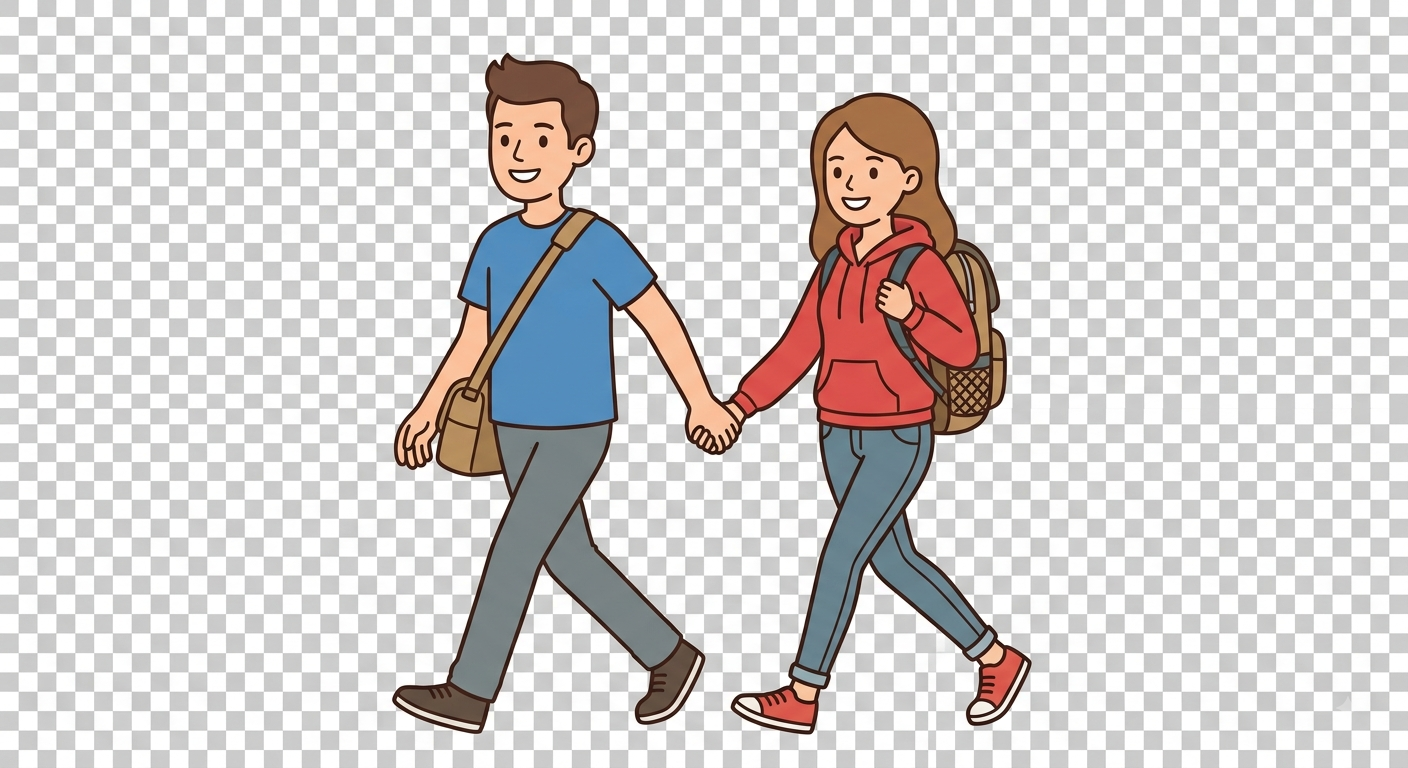
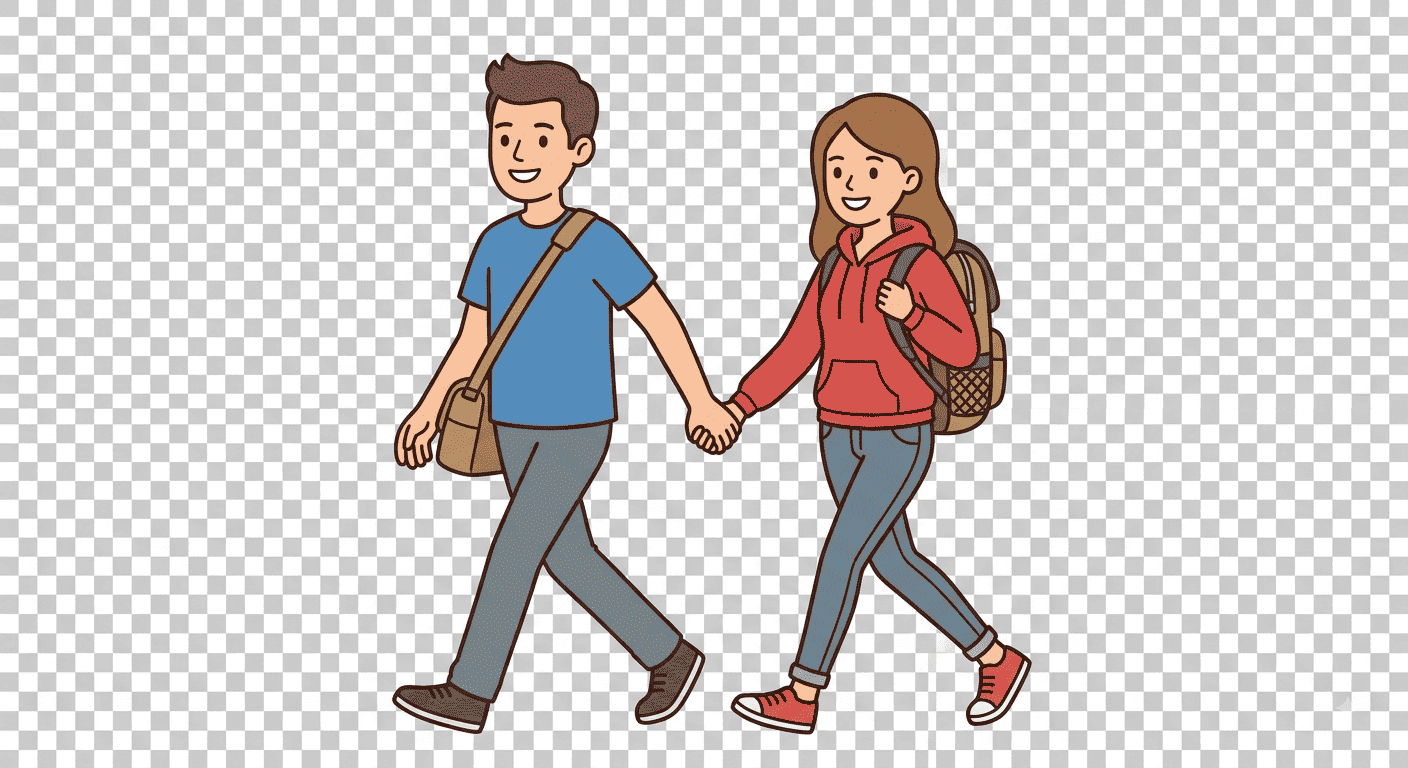
Compress the intro artwork and position it from the drawings
The three PNGs came down from 4.3MB to 496KB — a 90% cut, and they load before
the sequence can start, so on a mobile connection that was several seconds of
blank screen ahead of an animation whose whole purpose is the first impression.
TinyPNG palettised them to get there, which keeps transparency and is what the
browser wants anyway.

Seat and figure geometry now comes off the artwork rather than being guessed at:
the fuselage spans 6-93% of its canvas with seat backs at 38%, 49% and 60% and
the seat base at half the canvas height, while both figures are horizontally
centred and near full-height in theirs. Each seat box therefore runs about 3.5x
the width of the person inside it, with `left` backing off half that to land on
the seat. Walkers are scaled against the fuselage — roughly 40% of the plane's
height — so the people read at the right size beside it.

Everything stays a percentage of the plane, so it holds at every viewport.

Build 236 modules clean, 127/127 tests passing.

diff --git a/frontend/src/styles/landing.css b/frontend/src/styles/landing.css
@@ -626,16 +626,21 @@
 }
 .io-seat img { display: block; width: 100%; height: auto; }
 
-/* The subject sits inside a lot of transparent padding in the source files, so
-   the boxes are wider than the person appears and the negative offsets pull the
-   visible figure onto its seat. Tune these two rules against a screenshot —
-   nothing else needs to move. */
+/* Geometry, derived from the artwork rather than guessed:
+     plane   — fuselage spans 6–93% of its canvas; the three seat backs sit at
+               38%, 49% and 60%, with the seat base at 50% of canvas height
+     figures — both are horizontally centred in their canvas and near
+               full-height; the man covers ~28% of his canvas width, the pair
+               ~46% of theirs
+   So each box is roughly 3.5x the width of the person inside it, and `left`
+   backs off half the box width from the target seat. Everything is a percentage
+   of the plane, so it holds at every viewport. */
 .io-seat-1 {
-  left: 21%; bottom: 40%; width: 38%; height: 15%;
+  left: 25.5%; bottom: 48%; width: 25%; height: 13%;
   animation: io-seat 9s steps(1,end) forwards;
 }
 .io-seat-2 {
-  left: 33%; bottom: 40%; width: 46%; height: 15%;
+  left: 37%; bottom: 48%; width: 35%; height: 13%;
   animation: io-seat-late 9s steps(1,end) forwards;
 }
 @keyframes io-seat      { 0%,35% { opacity: 0; } 36%,100% { opacity: 1; transform: none; } }
@@ -644,9 +649,11 @@
 /* ── Walking figures ───────────────────────────────────────────────────── */
 .io-walker {
   position: absolute; bottom: 22vh; left: 0;
-  /* Sized generously: the figure occupies roughly the middle third of its own
-     canvas, so the element is about three times the height of the person. */
-  height: clamp(230px, 34vh, 460px); width: auto;
+  /* Scaled against the aircraft: its fuselage is about 40% of the plane's own
+     height, so a figure slightly taller than that reads correctly beside it.
+     The people are near full-height within their canvases, so element height
+     and person height are close to the same thing. */
+  height: clamp(150px, 23vh, 250px); width: auto;
   opacity: 0;
 }
 .io-walk-traveller { animation: io-walk-a 9s linear forwards, io-bob .5s ease-in-out infinite; }
